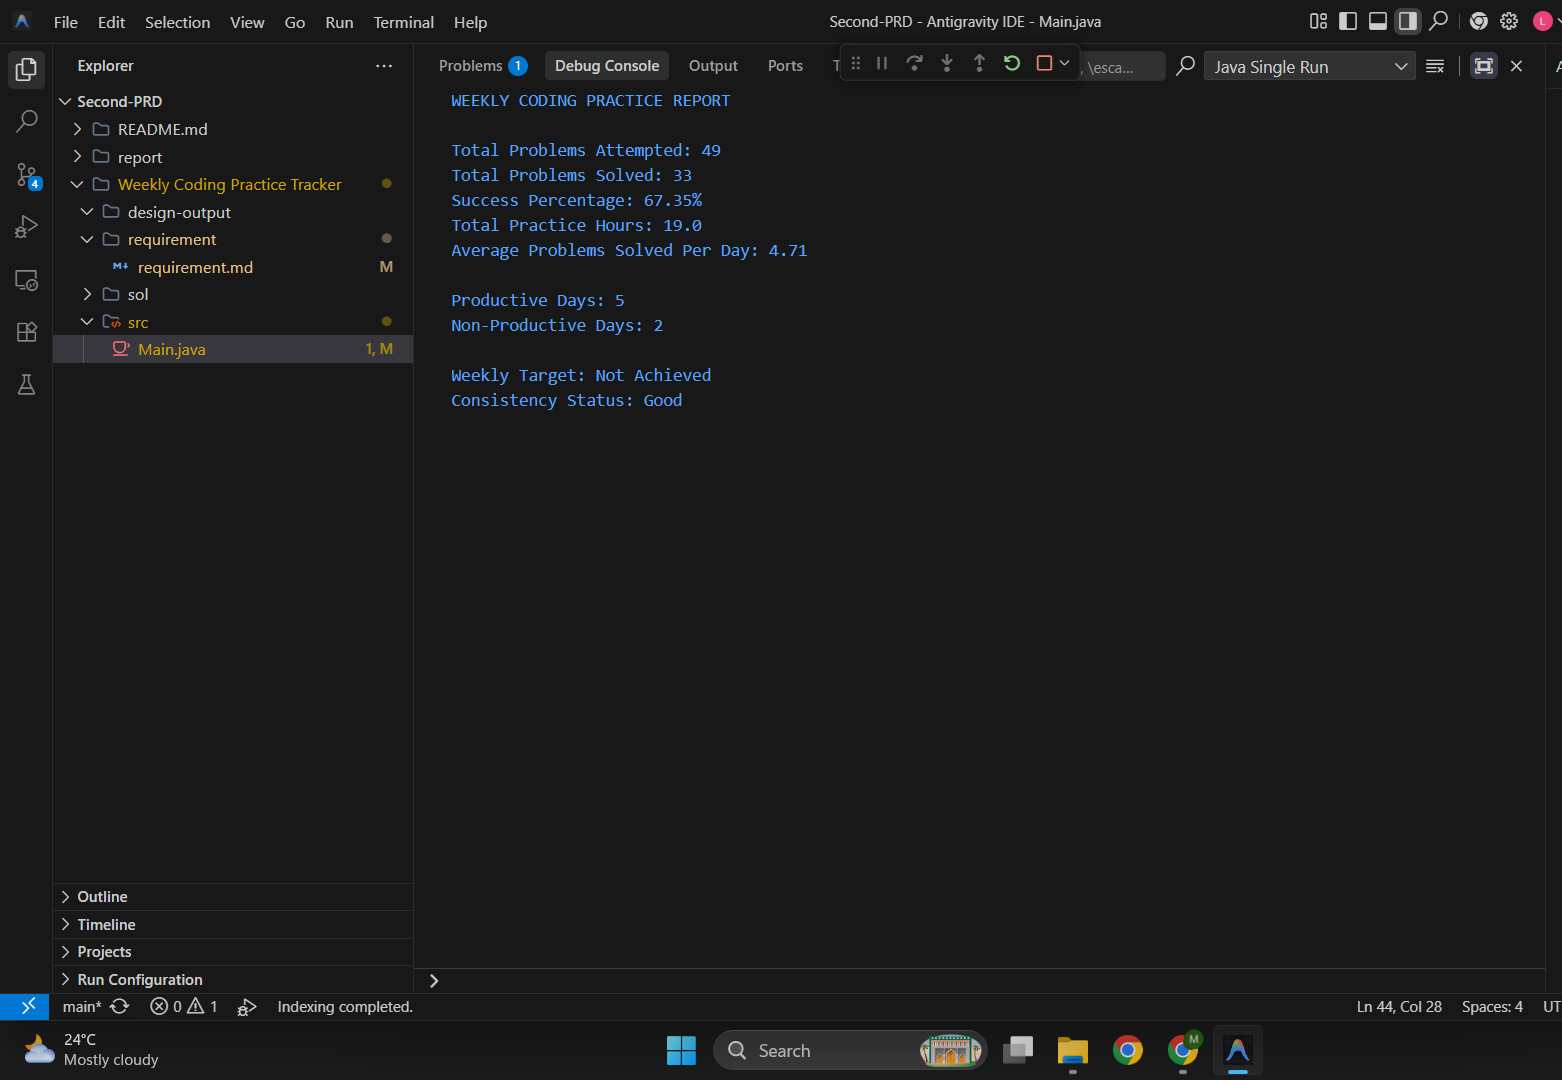
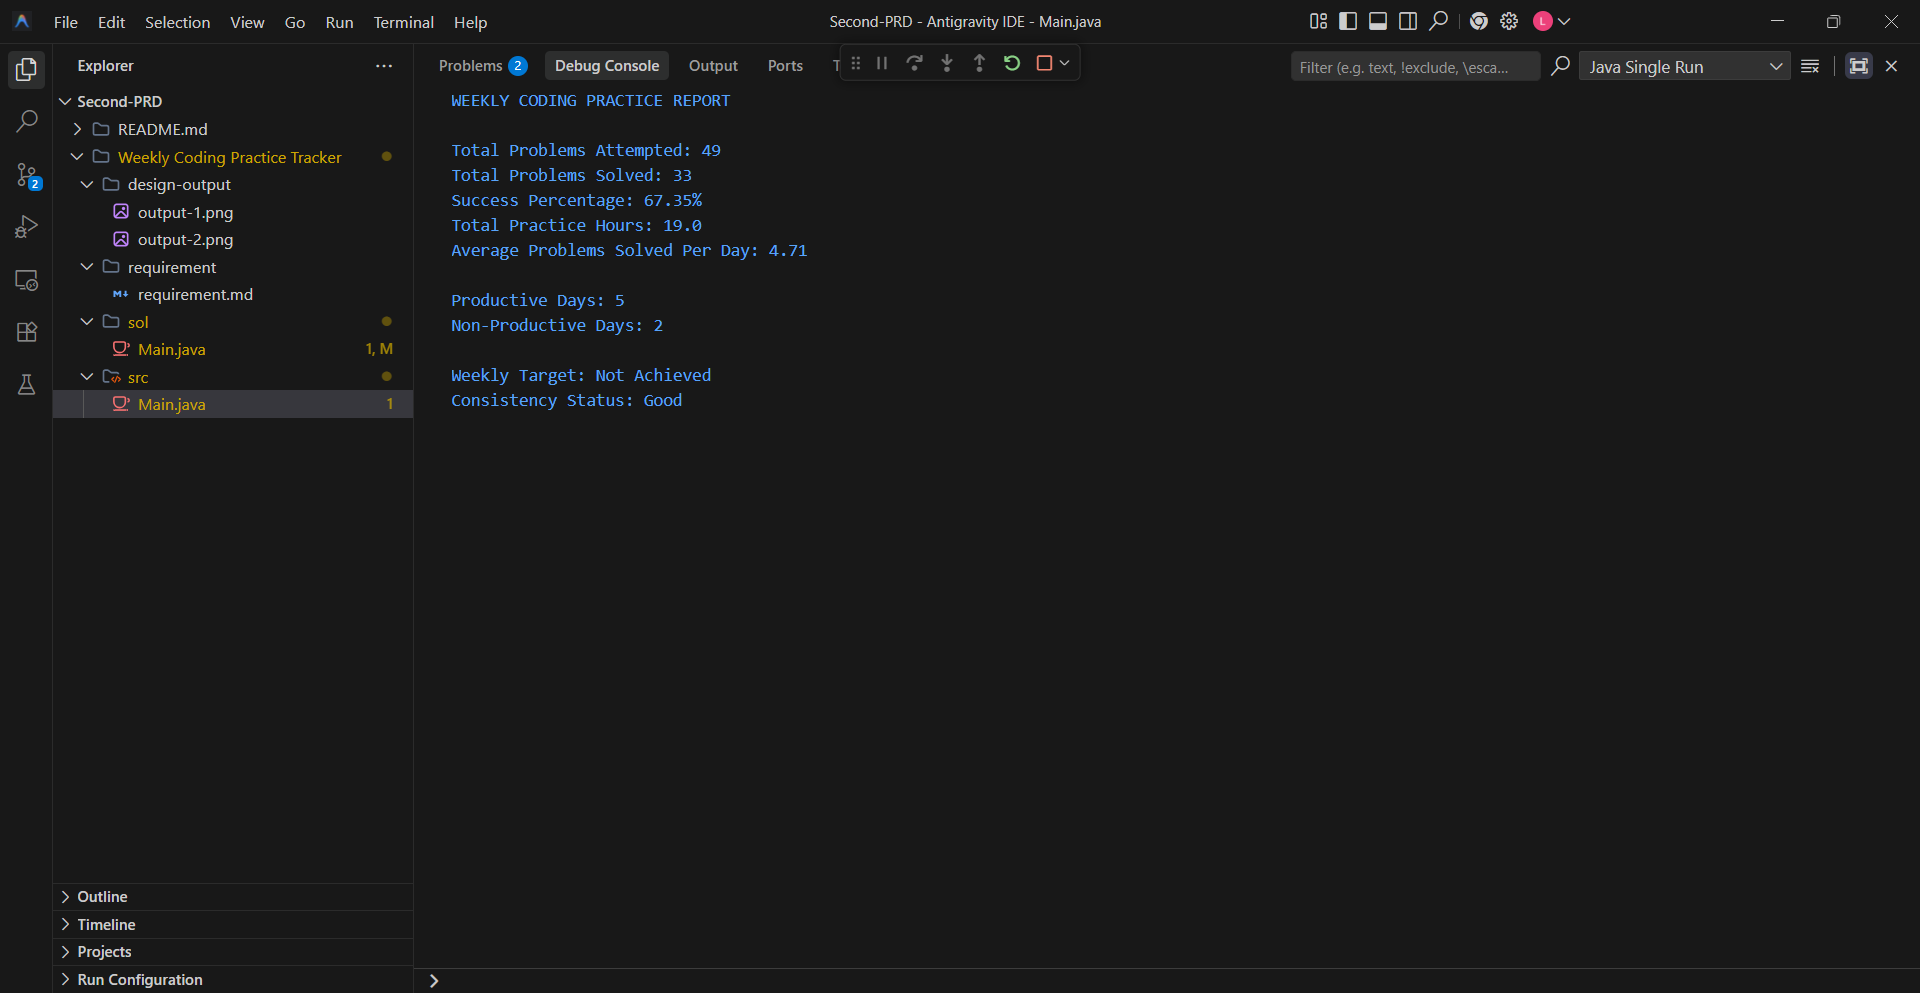
updated folder structure

diff --git a/Weekly Coding Practice Tracker/sol/Main.java b/Weekly Coding Practice Tracker/sol/Main.java
@@ -1,0 +1,86 @@
+
+public class Main {
+
+    public static void main(String[] args) {
+
+        int day = 1;
+
+        int attempted = 0;
+        int solved = 0;
+        double hours = 0;
+
+        int totalAttempted = 0;
+        int totalSolved = 0;
+        double totalHours = 0;
+
+        int productiveDays = 0;
+        int nonProductiveDays = 0;
+
+        while (day <= 7) {
+
+            if (day == 1) {
+                attempted = 10;
+                solved = 8;
+                hours = 3.0;
+            } else if (day == 2) {
+                attempted = 6;
+                solved = 4;
+                hours = 1.5;
+            } else if (day == 3) {
+                attempted = 9;
+                solved = 7;
+                hours = 2.5;
+            } else if (day == 4) {
+                attempted = 8;
+                solved = 5;
+                hours = 2.0;
+            } else if (day == 5) {
+                attempted = 7;
+                solved = 6;
+                hours = 2.5;
+            } else if (day == 6) {
+                attempted = 5;
+                solved = 3;
+                hours = 1.0;
+            } else if (day == 7) {
+                attempted = 11;
+                solved = 9;
+                hours = 3.5;
+            }
+            totalAttempted += attempted;
+            totalSolved += solved;
+            totalHours += hours;
+            if (solved >= 5 && hours >= 2) {
+                productiveDays++;
+            } else {
+                nonProductiveDays++;
+            }
+
+            day++;
+        }
+        double successPercentage;
+        if (totalAttempted != 0) {
+            successPercentage = (double) totalSolved / totalAttempted * 100;
+        } else {
+            successPercentage = 0;
+        }
+        double averageSolved = (double) totalSolved / 7;
+        String weeklyTarget = (totalSolved >= 35) ? "Achieved" : "Not Achieved";
+        String consistency = (productiveDays >= 5) ? "Good" : "Needs Improvement";
+        System.out.println("WEEKLY CODING PRACTICE REPORT\n");
+
+        System.out.println("Total Problems Attempted: " + totalAttempted);
+        System.out.println("Total Problems Solved: " + totalSolved);
+        System.out.printf("Success Percentage: %.2f%%\n", successPercentage);
+        System.out.println("Total Practice Hours: " + totalHours);
+        System.out.printf("Average Problems Solved Per Day: %.2f\n", averageSolved);
+
+        System.out.println();
+        System.out.println("Productive Days: " + productiveDays);
+        System.out.println("Non-Productive Days: " + nonProductiveDays);
+
+        System.out.println();
+        System.out.println("Weekly Target: " + weeklyTarget);
+        System.out.println("Consistency Status: " + consistency);
+    }
+}

diff --git a/Weekly Coding Practice Tracker/requirement/requirement.md b/Weekly Coding Practice Tracker/requirement/requirement.md
@@ -1,14 +1,13 @@
-                         Weekly Coding Practice Tracker
+Weekly Coding Practice Tracker
 
-Objective
-Create a Java program to track coding practice for 7 days using a 'while' loop and hard-coded values.
+Objective : Create a Java program to track coding practice for 7 days using a 'while' loop and hard-coded values.
 
 Requirements
 - Store daily:
   - Problems Attempted
   - Problems Solved
   - Practice Hours
-- A day is productive if:
+  - A day is productive if:
   - Solved >= 5
   - Practice Hours >= 2
 - Weekly target: 35 solved problems.
